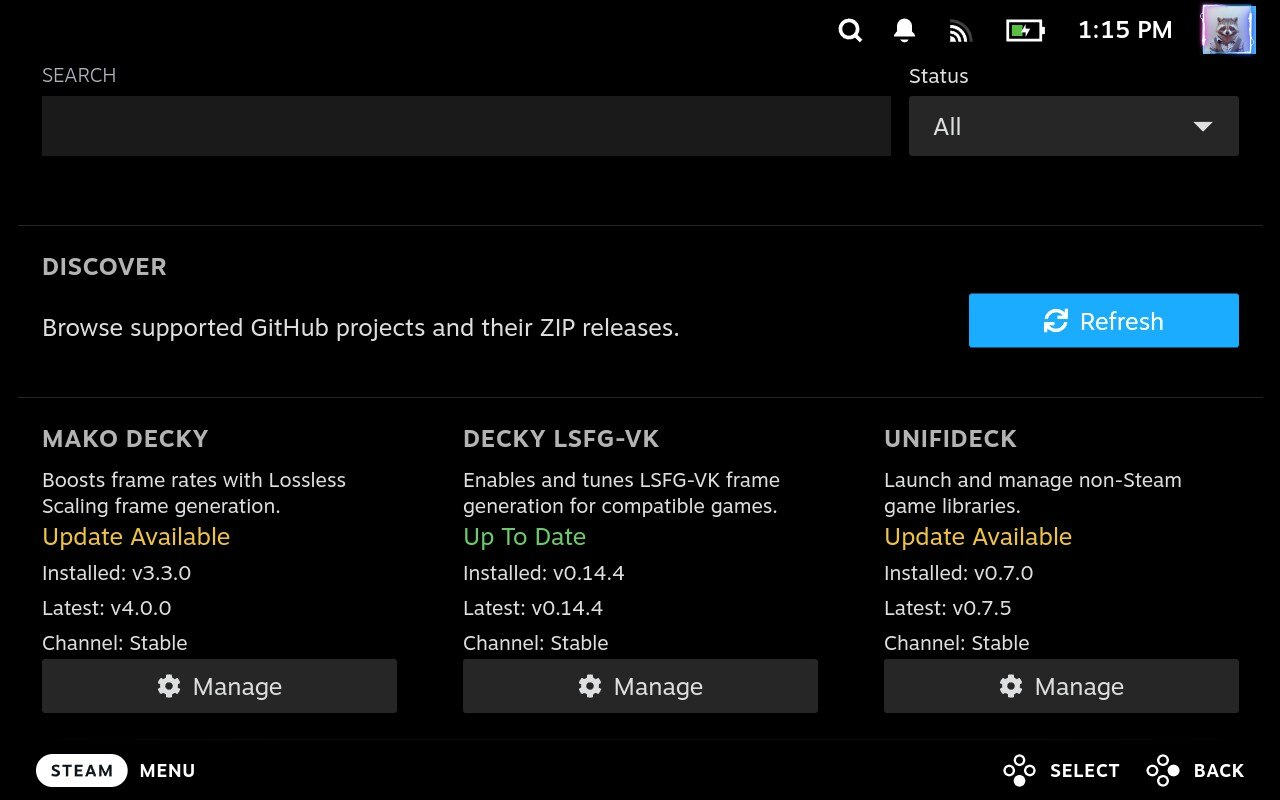
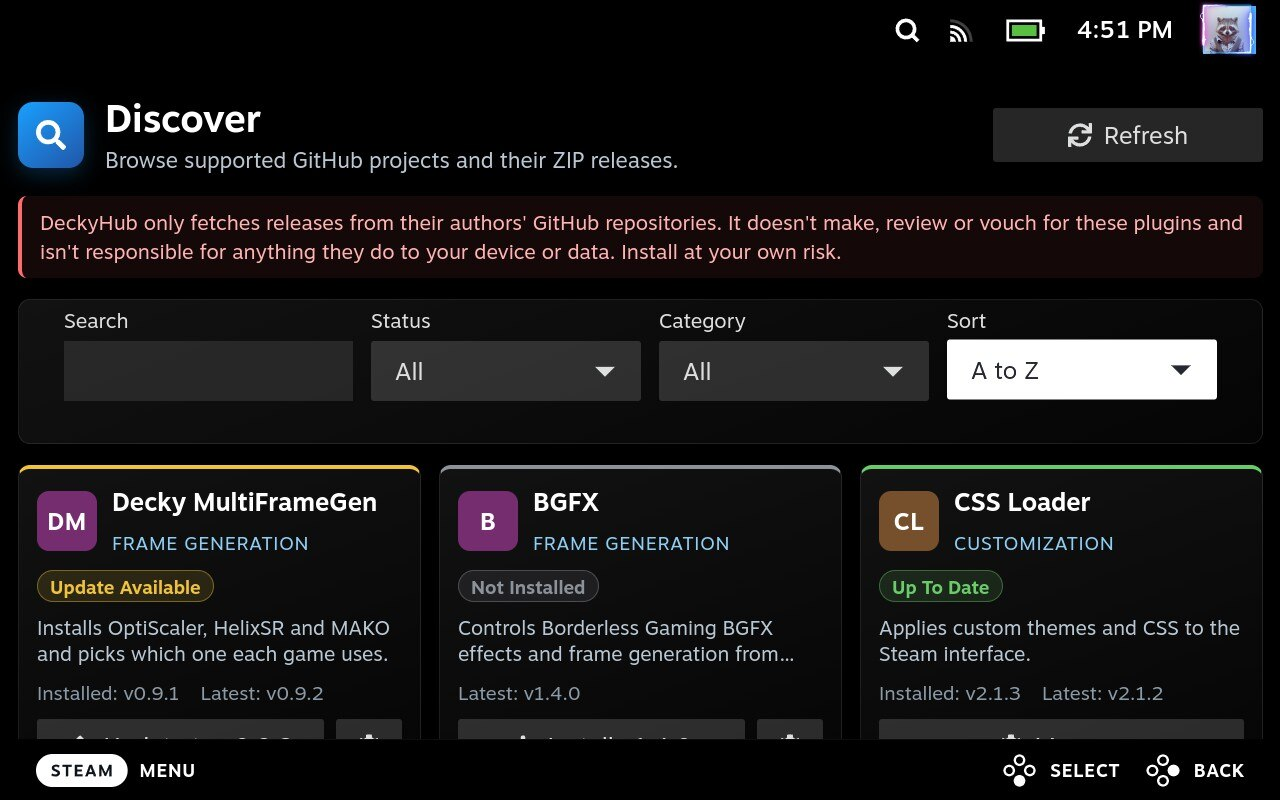
docs: document X/Y button shortcuts and refresh screenshots
- README: add a Controller buttons section (Y shows release notes, X downloads the ZIP)
- Site: mention the X/Y shortcuts and fix the Menu caption (Repositories opens from Settings)
- Screenshots: replace menu, discover, updates and manage with new Steam Deck captures

diff --git a/docs/index.html b/docs/index.html
@@ -80,7 +80,7 @@ footer .wrap{display:grid;gap:10px}
 <div class="grid">
 <div class="card"><div class="ico" aria-hidden="true">🔔</div><h3>Never miss an update</h3><p>DeckyHub checks your installed plugins against their latest GitHub releases and pings you with a toast the moment something new drops.</p></div>
 <div class="card"><div class="ico" aria-hidden="true">🧭</div><h3>Discover new tools</h3><p>A curated catalog of Steam Deck plugins, filterable by status and color-coded so you spot what needs attention at a glance.</p></div>
-<div class="card"><div class="ico" aria-hidden="true">🎮</div><h3>Controller first</h3><p>Full gamepad navigation and one-tap actions designed for Gaming Mode, not a desktop page squeezed onto a small screen.</p></div>
+<div class="card"><div class="ico" aria-hidden="true">🎮</div><h3>Controller first</h3><p>Full gamepad navigation and one-tap actions designed for Gaming Mode, not a desktop page squeezed onto a small screen. On any Install or Update button, Y shows the release notes and X downloads the ZIP instead.</p></div>
 <div class="card"><div class="ico" aria-hidden="true">🛡</div><h3>You stay in control</h3><p>Installs go through Decky Loader's own installer and confirmation dialog, with SHA-256 checksums verified whenever GitHub publishes one. Nothing runs on its own.</p></div>
 <div class="card"><div class="ico" aria-hidden="true">📦</div><h3>Track any repo</h3><p>Search GitHub, add any repository, pick stable or pre-release channels per app, and export your list to share or back up.</p></div>
 <div class="card"><div class="ico" aria-hidden="true">🔄</div><h3>Updates itself</h3><p>The Quick Access Menu tells you when a new DeckyHub release is out and updates it in place. You can also reinstall or downgrade to any recent version.</p></div>
@@ -91,7 +91,7 @@ footer .wrap{display:grid;gap:10px}
 <h2>Take the tour</h2>
 <p class="sub">Four screens, all reachable from the Quick Access Menu.</p>
 <div class="grid" style="grid-template-columns:repeat(auto-fit,minmax(min(420px,100%),1fr))">
-<figure><div class="shot"><img src="img/menu.webp" srcset="img/menu-640.webp 640w, img/menu.webp 1280w" sizes="(max-width:900px) 100vw, 540px" width="1280" height="800" alt="DeckyHub Menu screen" loading="lazy" decoding="async"></div><figcaption><strong>Menu</strong> — jump to Discover, Updates, Repositories or Settings from the Quick Access Menu.</figcaption></figure>
+<figure><div class="shot"><img src="img/menu.webp" srcset="img/menu-640.webp 640w, img/menu.webp 1280w" sizes="(max-width:900px) 100vw, 540px" width="1280" height="800" alt="DeckyHub Menu screen" loading="lazy" decoding="async"></div><figcaption><strong>Menu</strong> — jump to Discover, Updates or Settings from the Quick Access Menu, and keep DeckyHub itself up to date.</figcaption></figure>
 <figure><div class="shot"><img src="img/discover.webp" srcset="img/discover-640.webp 640w, img/discover.webp 1280w" sizes="(max-width:900px) 100vw, 540px" width="1280" height="800" alt="DeckyHub Discover screen" loading="lazy" decoding="async"></div><figcaption><strong>Discover</strong> — browse the catalog, filter by install status, open Manage to pick a channel and version.</figcaption></figure>
 <figure><div class="shot"><img src="img/updates.webp" srcset="img/updates-640.webp 640w, img/updates.webp 1280w" sizes="(max-width:900px) 100vw, 540px" width="1280" height="800" alt="DeckyHub Updates screen" loading="lazy" decoding="async"></div><figcaption><strong>Updates</strong> — every installed tool with a newer release, next to the version you have.</figcaption></figure>
 <figure><div class="shot"><img src="img/manage.webp" srcset="img/manage-640.webp 640w, img/manage.webp 1280w" sizes="(max-width:900px) 100vw, 540px" width="1280" height="800" alt="DeckyHub Manage screen" loading="lazy" decoding="async"></div><figcaption><strong>Manage</strong> — download the ZIP, or install and update through Decky Loader.</figcaption></figure>

diff --git a/README.md b/README.md
@@ -70,6 +70,17 @@ No setup, no configuration — the curated list shows up in Discover the moment 
 
 ## Using DeckyHub
 
+### Controller buttons
+
+DeckyHub uses the standard Steam Deck controls, plus two extra shortcuts on every **Install** / **Update** button (on Discover and Updates cards, in the [Manage](#manage) window, and for DeckyHub's own update):
+
+| Button | What it does |
+| --- | --- |
+| **X** | Download that release's ZIP to `/home/deck/Downloads/deckyhub` instead of installing it. Not shown when **Download ZIP** is hidden in Settings. |
+| **Y** | Show the release notes (what that release changes) without installing anything. |
+
+Steam's footer shows the X and Y actions for whichever button is focused.
+
 ### Discover
 
 Browse the curated list or search it by name, repository, category or description, and filter by **Status** (All, Installed, or Not Installed) and **Category**, and **Sort** A to Z, Z to A, or Recently added (newest additions to the list first; plugins with an update always come first). Each card is color-coded (green once it's up to date, yellow when an update is available, red on an error) so you can spot what needs attention at a glance, and says **Checking…** while its latest release is still being looked up. A card set to the pre-release **Channel** says so; stable is the default and isn't labelled. Tap **Manage** on any card to pick a channel and version, then download the release asset you want.
